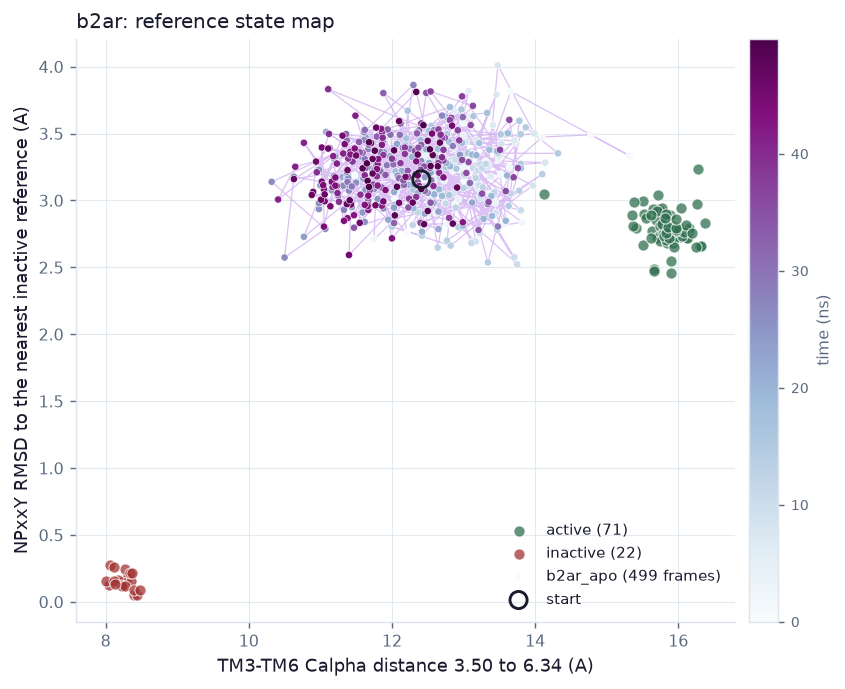
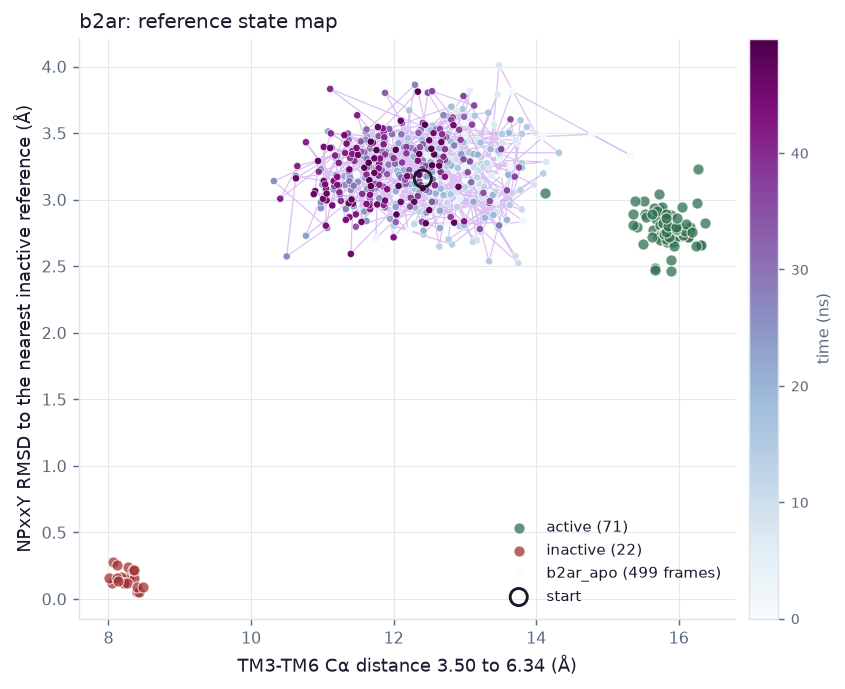
write the unit as Angstrom, as section 10 asks
Section 10's units line was not done in four places: both state map axes, the
two bilayer figure labels, and the published-threshold annotation on the
figure and on the page. All wrote A or A^2, and the map axes spelled out
Calpha and alphaC where section 5.4 names them Calpha as the Greek. The motif
timelines on the same page already wrote RMSD in Angstrom, so this was two
conventions in two panels of one page rather than plainness.

Checked DejaVu Sans carries U+00C5, U+00B2 and U+03B1 before changing
anything, then confirmed on the redrawn figures rather than from the font
table alone. A test covers the served axis labels and the page annotation, and
it was checked by putting the ASCII back and watching it fail: a unit drifts
back the next time a label is edited and nothing else would notice.

1036 passed, 2 skipped.

Claude-Session: https://claude.ai/code/session_01Pt2ReV8sSsax3AiDFwVPHW

diff --git a/flexappeal/templates/refstates_run.html b/flexappeal/templates/refstates_run.html
@@ -916,7 +916,7 @@
       {type: "line", xref: "x", x0: v, x1: v, yref: "paper", y0: 0, y1: 1,
        line: {dash: "dash", width: 1.5, color: "rgba(170,70,70,0.9)"}});
     layout.annotations = [{x: v, y: 1, xref: "x", yref: "paper",
-                           text: `published ${v} A`, showarrow: false,
+                           text: `published ${v} \u00c5`, showarrow: false,
                            font: {size: 11}, xanchor: "left"}];
   }
   // The trajectory's own path across the same plane, drawn last so it reads on

diff --git a/tests/test_refstates.py b/tests/test_refstates.py
@@ -5998,3 +5998,52 @@ def test_the_real_finished_row_reads_as_finished():
         ["bash", "-c",
          f'source "{root}/tools/analyse_all.sh"; row_finished b2ar_apo'],
         cwd=root, capture_output=True).returncode == 0
+
+
+# ===========================================================================
+#  Section 10's "units everywhere"
+# ===========================================================================
+
+
+def test_the_state_map_axes_are_labelled_in_angstrom(tmp_path: Path):
+    """Section 10: "Units everywhere: A, ns, degrees, A^2", in Angstrom.
+
+    The axis labels the state map serves were written `(A)` with `Calpha` and
+    `alphaC` spelled out, while the same page wrote `\\u00c5` everywhere else,
+    so one plot carried a different convention from the panel beside it. This
+    is the guard, because a unit is the kind of thing that drifts back when a
+    label is next edited and nothing notices.
+    """
+    from flexappeal.webapp import create_app
+
+    application = create_app()
+    application.config.update(TESTING=True)
+    client = application.test_client()
+
+    seen = 0
+    for system in ("abl1", "b2ar"):
+        response = client.get(f"/refstates/map/{system}.json")
+        if response.status_code == 404:
+            continue            # no references for this system in this checkout
+        axes = json.loads(response.data).get("axes") or []
+        assert axes, f"{system}: a state map with no axis labels"
+        for label in axes:
+            seen += 1
+            assert "Å" in label, f"{system}: {label!r} carries no Angstrom"
+            assert "(A)" not in label, f"{system}: {label!r} uses ASCII A"
+            assert "Calpha" not in label and "alphaC" not in label, \
+                f"{system}: {label!r} spells out a Greek letter"
+    if not seen:
+        pytest.skip("no state map in this checkout")
+
+
+def test_the_published_threshold_is_annotated_in_angstrom():
+    """The threshold line on the state map names its own unit.
+
+    Section 10 asks for threshold lines labelled on every plot, and a
+    threshold without a unit is half a label.
+    """
+    template = (Path(__file__).resolve().parents[1] / "flexappeal"
+                / "templates" / "refstates_run.html").read_text()
+    assert "published ${v} \\u00c5" in template, \
+        "the state map threshold annotation lost its Angstrom"

diff --git a/tools/make_figures.py b/tools/make_figures.py
@@ -283,7 +283,7 @@ def map_figure(client, system_id: str, out: Path,
         # horizontal line, and on the alphaC axis they are nowhere near it.
         axis.axvline(threshold, color=INK, linewidth=1.2, linestyle="--",
                      zorder=2,
-                     label=f"published threshold {threshold:g} A, both axes")
+                     label=f"published threshold {threshold:g} Å, both axes")
         axis.axhline(threshold, color=INK, linewidth=1.2, linestyle="--",
                      zorder=2)
 
@@ -342,9 +342,9 @@ def bilayer_figure(connection, run_id: str, out: Path) -> bool:
     times = [c["time_ns"] for c in chunks]
 
     windows = ((membrane.APL_EXPECTED_A2, membrane.APL_ACCEPTABLE_A2, "apl",
-                "area per lipid (A^2)"),
+                "area per lipid (Å²)"),
                (membrane.THICKNESS_EXPECTED_A, None, "thickness",
-                "P-P thickness (A)"))
+                "P-P thickness (Å)"))
     for axis, (expected, acceptable, key, label) in zip(axes, windows):
         if acceptable:
             axis.axhspan(*acceptable, color=AMBER, alpha=0.10,

diff --git a/flexappeal/refstates/web.py b/flexappeal/refstates/web.py
@@ -466,12 +466,12 @@ def state_map(system_id: str):
             continue
         if system_id == "abl1":
             x, y = metrics.get("dfg_d_alphac"), metrics.get("dfg_d_lys")
-            axes = ("DFG-Phe to alphaC-Glu+4 Calpha (A)",
-                    "DFG-Phe to catalytic Lys Calpha (A)")
+            axes = ("DFG-Phe to αC-Glu+4 Cα (Å)",
+                    "DFG-Phe to catalytic Lys Cα (Å)")
         else:
             x, y = metrics.get("tm3_tm6"), metrics.get("npxxy_to_inactive")
-            axes = ("TM3-TM6 Calpha distance 3.50 to 6.34 (A)",
-                    "NPxxY RMSD to the nearest inactive reference (A)")
+            axes = ("TM3-TM6 Cα distance 3.50 to 6.34 (Å)",
+                    "NPxxY RMSD to the nearest inactive reference (Å)")
         if x is None or (system_id != "abl1" and y is None):
             continue
         points.append({"pdb": row["pdb"], "x": x, "y": y,

diff --git a/FINDINGS.md b/FINDINGS.md
@@ -3763,6 +3763,36 @@ pattern it was the production queue that died: `queue_md.py` and `run_md.py`
 were checked to be untouched before and after, and `abl1_apo` went on writing
 through both.
 
+## 4bd. One plot wrote its unit as "A" while the panel beside it wrote "Å"
+
+Section 10's last QC line is "Units everywhere: Å, ns, degrees, Å²; threshold
+lines labelled on every plot". The threshold lines were done, in 4ap. The units
+were not, in four places:
+
+| Where | Was | Now |
+|---|---|---|
+| state map axes, both systems | `DFG-Phe to alphaC-Glu+4 Calpha (A)` | `DFG-Phe to αC-Glu+4 Cα (Å)` |
+| bilayer figure | `area per lipid (A^2)`, `P-P thickness (A)` | `area per lipid (Å²)`, `P-P thickness (Å)` |
+| map figure threshold | `published threshold 11 A, both axes` | `published threshold 11 Å, both axes` |
+| map threshold on the page | `published 11 A` | `published 11 Å` |
+
+Small, and worth the entry for two reasons. The first is that it was
+*inconsistent* rather than merely plain: the motif timelines on the same page
+label their y axis `RMSD (Å)`, so a reader moving between two panels of one
+page met two conventions and had to decide whether they meant the same thing.
+The second is that `Calpha` and `alphaC` were spelled out where section 5.4
+names them Cα and αC, so the axis of the kinase state map did not use the
+vocabulary the rest of the build does.
+
+Checked rather than assumed before changing it: matplotlib resolves to DejaVu
+Sans here, and U+00C5, U+00B2 and U+03B1 are all in its cmap, so the figures
+render the characters rather than a box. Confirmed by looking at the redrawn
+figures, not by the font table alone.
+
+There is now a test for it, and the test was checked by putting the ASCII label
+back and watching it fail. A unit is exactly the kind of thing that drifts back
+the next time a label is edited, and nothing else would have noticed.
+
 ## 5. Production runs
 
 Tier 2 started at 17:04 on 10 October, in section 5.3's priority order: β2AR

diff --git a/BUILD_LOG.md b/BUILD_LOG.md
@@ -1547,3 +1547,19 @@ Docstring corrected to describe what the code does, and the deviation added to
 FINDINGS section 4, where the other five already are.
 
 1036 passed, 2 skipped.
+
+### 11 October, 19:50. Section 10's units line
+
+"Units everywhere: Å, ns, degrees, Å²" was not done in four places: both state
+map axes, the two bilayer figure labels, and the published-threshold annotation
+on both the figure and the page. All wrote `A` or `A^2`, and the state map
+axes also spelled out `Calpha` and `alphaC` where section 5.4 names them Cα and
+αC. The motif timelines on the same page already wrote `RMSD (Å)`, so the fault
+was an inconsistency between two panels of one page rather than plainness.
+
+Checked that DejaVu Sans, which matplotlib resolves to here, carries U+00C5,
+U+00B2 and U+03B1 before changing anything, then confirmed by looking at the
+redrawn figures. A test covers the served axis labels and the page's threshold
+annotation, and it was checked by putting the ASCII back and watching it fail.
+
+1036 passed, 2 skipped.
